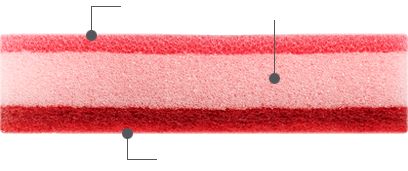
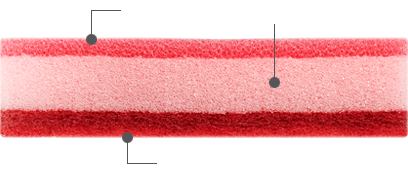
마이그레이션 홈앤리빙 기타용품

Changed region(s): [[0.0, 0.1754, 1.0, 0.848], [0.2941, 0.9064, 0.3824, 0.9649], [0.2059, 0.0292, 0.2941, 0.0877]]

diff --git a/_ui/responsive/html/product/home-living/detergent-cleanser/HL_7763_10_Soft_Buz.html b/_ui/responsive/html/product/home-living/detergent-cleanser/HL_7763_10_Soft_Buz.html
@@ -1,7 +1,7 @@
 <!DOCTYPE html>
 <html lang="ko">
 <head>
-	<title>극세사 맙 세트 상세정보</title>
+	<title>소프트 버즈 상세정보</title>
 	<meta http-equiv="Content-Type" content="text/html; charset=utf-8">
 	<meta http-equiv="X-UA-Compatible" content="IE=edge">
 	<meta charset="utf-8">
@@ -64,21 +64,18 @@
 											<div class="v-logo">&nbsp;</div>
 											<div class="txt-info-visual">
 												<div class="v-logo-txt">&nbsp;</div>
-												<div class="v-tit">극세사 맙 <span class="blue02">세트</span></div>
-												<p class="v-etc">
-													힘들게 물걸레로 넓은 거실, 쇼파 밑, 방안 구석구석 닦을 필요 없이, 극세사 맙세트로 간편하게 청소하세요.
-													<br>찌든 때도 말끔히 없애줄 뿐만 아니라 청소가 쉽고 즐거워집니다.
-													<br>넓은 면적으로 청소하기가 간편하고, 밀림성과 닦임성이 우수할 뿐만 아니라 180˚ 회전 가능해 쇼파나 침대 밑, 구석진 곳도 쉽게 청소할 수 있습니다. 
-												</p>												
+												<div class="v-tit">소프트 <span class="blue02">버즈</span></div>
+												<p class="v-txt">소프트 버즈는 디쉬 드랍스에 최적화된 고급 식기용 3중 구조 수세미입니다.</p>																								
 											</div>				
 											<div class="v-pro">
-												<span><img src="/_ui/responsive/theme-blue/images/akl_product/home-living/visual_top_7790.png" alt="극세사 맙 세트 상품 이미지"></span>
+												<span><img src="/_ui/responsive/theme-blue/images/akl_product/home-living/visual_top_7763.png" alt="소프트 버즈 이미지"></span>
 											</div>
 										</div>
 										<!--// 비주얼 영역 -->
-										
+																				
 										<!--  content 영역 -->
 										<div class="detail-content-area">
+										
 											<div class="health-inform-box">
 												<div class="box-tit">
 													<h5>제품 <span class="blue02">특징</span></h5>
@@ -86,83 +83,66 @@
 												<div class="effet-area">
 													<div class="advan-left">
 														<dl class="ad-setp-lst">
-															<dt class="blue02">소재</dt>
+															<dt class="blue02">고급식기용 3중 구조</dt>
 															<dd>
-																<ul class="norm-lst">
-																	<li>Glass Fiber(유리섬유) 소재로 내구성이 뛰어납니다.</li>
-																</ul>
+																<ol class="inge-numlst01">
+																	<li>- 필터폼 : 고급 식기도 스크래치 없이 깔끔하게 세척할 수 있으며 기름기 제거에 효과적입니다. 
+																	<li>- 항균스폰지 : 더욱 두꺼워진 스폰지가 풍부한 거품을 오래 유지시켜 줍니다.
+																	<li>- 부직포 수세미 : 일반 식기, 조리용기 등에 눌어붙거나 말라붙은 음식 찌꺼기를 깔끔하게 세척할 수 있습니다.</li>
+																</ol>
 															</dd>
-															<dt class="blue02">길이</dt>
+															<dt class="blue02">손에 딱 맞는 그립감</dt>
 															<dd>
-																<ul class="norm-lst">
-																	<li>간편한 5단 길이 조절 방식으로 23cm까지 조절하여 사용할 수 있습니다.</li>
-																</ul>
+																<ol class="inge-numlst01">
+																	<li>- 곡선 형태로 손에서 미끄러지지 않습니다.</li>
+																	<li>- 모서리 부분으로 구석진 곳도 깨끗하게 닦을 수 있습니다.</li>
+																</ol>
 															</dd>
-															<dt class="blue02">기능</dt>
+															<dt class="blue02">위생가공 / 항균방취 (항균마크)</dt>
 															<dd>
-																<ul class="norm-lst">
-																	<li>원터치 기능으로 맙 탈부착이 쉬우며 180도 회전이 가능해 구석진 곳도 편리하게 청소할 수 있습니다.</li>
-																</ul>
+																<ol class="inge-numlst01">
+																	<li>- 무기항균제 가공으로 위생적입니다.</li>
+																</ol>
 															</dd>
-															<dt class="blue02">맙</dt>
-															<dd>
-																<ul class="norm-lst">
-																	<li>닦임성, 밀림성이 우수한 극세사 맙으로 손쉽게 때를 제거할 수 있습니다.</li>
-																</ul>
-															</dd>
-															<dt class="blue02">편의</dt>
-															<dd>
-																<ul class="norm-lst">
-																	<li>맙을 거치대에 부착 시 원터치 버튼을 누르면 거치대가 가장 알맞은 각도로 조절되어 쉽게 끼울 수 있습니다. 탈착 시에도 원터치 버튼을 누르면 맙이 쉽게 분리됩니다.</li>
-																</ul>
-															</dd>
-															<dt class="blue02">재질</dt>
-															<dd>
-																<ul class="norm-lst">
-																	<li>폴리에스테르 80%와 폴리아미드 20%가 혼용된 극세사의 V자형 격자배열로 구성되어, 청소 시 밀림성과 닦임성이 탁월합니다.</li>
-																</ul>
-															</dd>
-															<dt class="blue02">코메츠</dt>
-															<dd>
-																<ul class="norm-lst">
-																	<li>맙 가장자리 코메츠 부분을 기존 제품 대비 더 가늘고 길게 제작하여, 구석진 곳의 먼지를 더욱 쉽게 흡착할 수 있도록 개선하였습니다.</li>
-																</ul>
-															</dd>
-															<dt class="blue02">디자인</dt>
-															<dd>
-																<ul class="norm-lst">
-																	<li>기존 제품 대비 맙의 크기를 증가시켜 한번에 청소할 수 있는 면적이 증가하였으며, 암웨이홈 L.O.C. 그린 컬러를 적용하되, 두 가지 다른 소재의 컬러를 차별화 하여 닦아낸 오염을 쉽게 확인할 수 있도록 개발되었습니다.</li>
-																</ul>
-															</dd>														
+															<dt class="blue02">걸이 구멍으로 위생적인 보관과 빠른 건조 가능</dt>																																												
 														</dl>													
 													</div>
-													<div class="advan-right mod-wrap">
-														<div class="ade-photo">
-															<span><img src="/_ui/responsive/theme-blue/images/akl_product/home-living/cont_7790_mop_rod.png" alt="mod rod 제품 이미지"></span>														
-														</div>
+													
+													<div class="advan-right mod-wrap buz">														
 														<div class="ade-photo dot-txt-area">
 															<div class="img-desc-area">
-																<img src="/_ui/responsive/theme-blue/images/akl_product/home-living/cont_7790_mop.png" alt="mod 특징 안내 이미지">															
-																<em class="txt fst">코메츠</em>
-																<em class="txt sec">폴리에스터</em>
-																<em class="txt three">폴리아미드</em>															
+																<img src="/_ui/responsive/theme-blue/images/akl_product/home-living/cont_7763_01.png" alt="특징 안내">															
+																<em class="txt sec">필터폼</em>
+																<em class="txt three">향균스폰지</em>
+																<em class="txt fst">부직포 수세미</em>															
 															</div>
 														</div>														
 													</div>
 												</div>
 											</div>
-											
+										
 											<div class="ingestion-usage">
 												<dl>
-													<dt>제품 구성</dt>
+													<dt>수량</dt>
 													<dd>
 														<ul class="norm-lst">
-															<li>극세사 맙, 밀대</li>
+															<li>4개 (1세트)</li>
 														</ul>
 													</dd>
+												</dl>
+												<dl>
+													<dt>주의사항</dt>
+													<dd>
+														<ol class="inge-numlst01">
+															<li>1) 알칼리성 세제, 표백제 사용을 피해주십시오. </li>
+															<li>2) 화기 근처에 두지 마시고 80ºc 이상의 뜨거운 물에서 사용하거나 얼리지 마십시오. </li>
+															<li>3) 부직포 수세미 면으로 코팅된 부분, 플라스틱, 유리, 도자기 등 흠집이 나기 쉬운 제품과 광택이 있는 제품에는 사용하지 마십시오.</li>
+															<li>4) 사용 후 잘 헹구어 물기를 꼭 짠 후 보관하면 건조가 빨라 깨끗한 상태로 오랫동안 사용할 수 있습니다.</li>
+														</ol>
+													</dd>
 												</dl>											
-											</div>											
-										</div>	
+											</div>
+										</div>
 										<!--//  content 영역 -->
 									</div>									
 									<!--// 제품 상세영역 -->									

diff --git a/_ui/responsive/html/product/home-living/detergent-cleanser/HL_7764_10_Power_Buz.html b/_ui/responsive/html/product/home-living/detergent-cleanser/HL_7764_10_Power_Buz.html
@@ -1,7 +1,7 @@
 <!DOCTYPE html>
 <html lang="ko">
 <head>
-	<title>극세사 맙 세트 상세정보</title>
+	<title>파워 버즈 상세정보</title>
 	<meta http-equiv="Content-Type" content="text/html; charset=utf-8">
 	<meta http-equiv="X-UA-Compatible" content="IE=edge">
 	<meta charset="utf-8">
@@ -64,21 +64,18 @@
 											<div class="v-logo">&nbsp;</div>
 											<div class="txt-info-visual">
 												<div class="v-logo-txt">&nbsp;</div>
-												<div class="v-tit">극세사 맙 <span class="blue02">세트</span></div>
-												<p class="v-etc">
-													힘들게 물걸레로 넓은 거실, 쇼파 밑, 방안 구석구석 닦을 필요 없이, 극세사 맙세트로 간편하게 청소하세요.
-													<br>찌든 때도 말끔히 없애줄 뿐만 아니라 청소가 쉽고 즐거워집니다.
-													<br>넓은 면적으로 청소하기가 간편하고, 밀림성과 닦임성이 우수할 뿐만 아니라 180˚ 회전 가능해 쇼파나 침대 밑, 구석진 곳도 쉽게 청소할 수 있습니다. 
-												</p>												
+												<div class="v-tit">파워 <span class="blue02">버즈</span></div>
+												<p class="v-txt">L.O.C.에 최적화된 표면 세정용 3중 구조</p>																								
 											</div>				
 											<div class="v-pro">
-												<span><img src="/_ui/responsive/theme-blue/images/akl_product/home-living/visual_top_7790.png" alt="극세사 맙 세트 상품 이미지"></span>
+												<span><img src="/_ui/responsive/theme-blue/images/akl_product/home-living/visual_top_7764.png" alt="파워 버즈 이미지"></span>
 											</div>
 										</div>
 										<!--// 비주얼 영역 -->
-										
+																				
 										<!--  content 영역 -->
 										<div class="detail-content-area">
+										
 											<div class="health-inform-box">
 												<div class="box-tit">
 													<h5>제품 <span class="blue02">특징</span></h5>
@@ -86,83 +83,66 @@
 												<div class="effet-area">
 													<div class="advan-left">
 														<dl class="ad-setp-lst">
-															<dt class="blue02">소재</dt>
+															<dt class="blue02">표면 세정용 3중 구조</dt>
 															<dd>
-																<ul class="norm-lst">
-																	<li>Glass Fiber(유리섬유) 소재로 내구성이 뛰어납니다.</li>
-																</ul>
+																<ol class="inge-numlst01">
+																	<li>- 메쉬네트 : 타원형 브러쉬 기능으로 틈새의 이물질도 깨끗하게 닦을 수 있습니다.</li>
+																	<li>- 향균스폰지 : 스폰지가 그립감을 향상시켜주며 흡수력이 뛰어나 물청소에도 용이합니다.</li>
+																	<li>- 부직포 수세미 :  강력 연마입자가 들어있어 부엌과 욕실 등 다양한 곳의 묵은 때와 찌든 때를 말끔히 없애줍니다.</li>
+																</ol>
 															</dd>
-															<dt class="blue02">길이</dt>
+															<dt class="blue02">S자 형으로 손에 딱 맞는 그립감</dt>
 															<dd>
-																<ul class="norm-lst">
-																	<li>간편한 5단 길이 조절 방식으로 23cm까지 조절하여 사용할 수 있습니다.</li>
-																</ul>
+																<ol class="inge-numlst01">
+																	<li>- 곡선 형태로 손에서 미끄러지지 않습니다.</li>
+																	<li>- 모서리 부분으로 구석진 곳도 깨끗하게 닦을 수 있습니다.</li>
+																</ol>
 															</dd>
-															<dt class="blue02">기능</dt>
+															<dt class="blue02">위생가공 / 항균방취 (항균마크)</dt>
 															<dd>
-																<ul class="norm-lst">
-																	<li>원터치 기능으로 맙 탈부착이 쉬우며 180도 회전이 가능해 구석진 곳도 편리하게 청소할 수 있습니다.</li>
-																</ul>
+																<ol class="inge-numlst01">
+																	<li>- 무기항균제 가공으로 위생적입니다.</li>
+																</ol>
 															</dd>
-															<dt class="blue02">맙</dt>
-															<dd>
-																<ul class="norm-lst">
-																	<li>닦임성, 밀림성이 우수한 극세사 맙으로 손쉽게 때를 제거할 수 있습니다.</li>
-																</ul>
-															</dd>
-															<dt class="blue02">편의</dt>
-															<dd>
-																<ul class="norm-lst">
-																	<li>맙을 거치대에 부착 시 원터치 버튼을 누르면 거치대가 가장 알맞은 각도로 조절되어 쉽게 끼울 수 있습니다. 탈착 시에도 원터치 버튼을 누르면 맙이 쉽게 분리됩니다.</li>
-																</ul>
-															</dd>
-															<dt class="blue02">재질</dt>
-															<dd>
-																<ul class="norm-lst">
-																	<li>폴리에스테르 80%와 폴리아미드 20%가 혼용된 극세사의 V자형 격자배열로 구성되어, 청소 시 밀림성과 닦임성이 탁월합니다.</li>
-																</ul>
-															</dd>
-															<dt class="blue02">코메츠</dt>
-															<dd>
-																<ul class="norm-lst">
-																	<li>맙 가장자리 코메츠 부분을 기존 제품 대비 더 가늘고 길게 제작하여, 구석진 곳의 먼지를 더욱 쉽게 흡착할 수 있도록 개선하였습니다.</li>
-																</ul>
-															</dd>
-															<dt class="blue02">디자인</dt>
-															<dd>
-																<ul class="norm-lst">
-																	<li>기존 제품 대비 맙의 크기를 증가시켜 한번에 청소할 수 있는 면적이 증가하였으며, 암웨이홈 L.O.C. 그린 컬러를 적용하되, 두 가지 다른 소재의 컬러를 차별화 하여 닦아낸 오염을 쉽게 확인할 수 있도록 개발되었습니다.</li>
-																</ul>
-															</dd>														
+															<dt class="blue02">걸이 구멍으로 위생적인 보관과 빠른 건조 가능</dt>																																												
 														</dl>													
 													</div>
-													<div class="advan-right mod-wrap">
-														<div class="ade-photo">
-															<span><img src="/_ui/responsive/theme-blue/images/akl_product/home-living/cont_7790_mop_rod.png" alt="mod rod 제품 이미지"></span>														
-														</div>
+													
+													<div class="advan-right mod-wrap buz">														
 														<div class="ade-photo dot-txt-area">
 															<div class="img-desc-area">
-																<img src="/_ui/responsive/theme-blue/images/akl_product/home-living/cont_7790_mop.png" alt="mod 특징 안내 이미지">															
-																<em class="txt fst">코메츠</em>
-																<em class="txt sec">폴리에스터</em>
-																<em class="txt three">폴리아미드</em>															
+																<img src="/_ui/responsive/theme-blue/images/akl_product/home-living/cont_7764_01.png" alt="특징 안내">															
+																<em class="txt sec">메쉬네트</em>
+																<em class="txt three">향균스폰지</em>
+																<em class="txt fst">부직포 수세미</em>															
 															</div>
 														</div>														
 													</div>
 												</div>
 											</div>
-											
+										
 											<div class="ingestion-usage">
 												<dl>
-													<dt>제품 구성</dt>
+													<dt>수량</dt>
 													<dd>
 														<ul class="norm-lst">
-															<li>극세사 맙, 밀대</li>
+															<li>4개 (1세트)</li>
 														</ul>
 													</dd>
+												</dl>
+												<dl>
+													<dt>주의사항</dt>
+													<dd>
+														<ol class="inge-numlst01">
+															<li>1) 알칼리성 세제, 표백제 사용을 피해주십시오. </li>
+															<li>2) 화기 근처에 두지 마시고 80ºc 이상의 뜨거운 물에서 사용하거나 얼리지 마십시오. </li>
+															<li>3) 부직포 수세미 면으로 코팅된 부분, 플라스틱, 유리, 도자기 등 흠집이 나기 쉬운 제품과 광택이 있는 제품에는 사용하지 마십시오.</li>
+															<li>4) 사용 후 잘 헹구어 물기를 꼭 짠 후 보관하면 건조가 빨라 깨끗한 상태로 오랫동안 사용할 수 있습니다.</li>
+														</ol>
+													</dd>
 												</dl>											
-											</div>											
-										</div>	
+											</div>
+										</div>
 										<!--//  content 영역 -->
 									</div>									
 									<!--// 제품 상세영역 -->									

diff --git a/_ui/responsive/theme-blue/css/akl-product02.css b/_ui/responsive/theme-blue/css/akl-product02.css
@@ -475,13 +475,19 @@ p, div, li span{word-break: keep-all;word-wrap: break-word;}
 .assistant-pr .ad-setp-lst dt{font-size:18px;}
 .assistant-pr .ad-setp-lst dd .inge-numlst01 li{margin-left: 10px;text-indent: -8px;}
 
-.assistant-pr .effet-area .advan-right.mod-wrap .ade-photo:nth-child(2){margin-top:50px;}
-.assistant-pr .effet-area .advan-right.mod-wrap .ade-photo:nth-child(2) .img-desc-area{display: inline-block;position: relative;width: auto;height: auto;}
-.assistant-pr .effet-area .advan-right.mod-wrap .ade-photo:nth-child(2) .img-desc-area img{width: auto;height: auto;display: block;}
-.assistant-pr .effet-area .advan-right.mod-wrap .ade-photo:nth-child(2) .img-desc-area .txt{position:absolute;overflow: hidden;}
-.assistant-pr .effet-area .advan-right.mod-wrap .ade-photo:nth-child(2) .img-desc-area .txt.fst{display:block;width:100%;top:0;left:0;}
-.assistant-pr .effet-area .advan-right.mod-wrap .ade-photo:nth-child(2) .img-desc-area .txt.sec{display:inline-block;width: 50%;bottom: 0;left:0;}
-.assistant-pr .effet-area .advan-right.mod-wrap .ade-photo:nth-child(2) .img-desc-area .txt.three{display:inline-block;width: 50%;bottom: 0;right: 0;}
+.assistant-pr .effet-area .advan-right.mod-wrap .ade-photo.dot-txt-area{margin-top:50px;}
+.assistant-pr .effet-area .advan-right.mod-wrap .ade-photo.dot-txt-area .img-desc-area{display: inline-block;position: relative;width: auto;height: auto;}
+.assistant-pr .effet-area .advan-right.mod-wrap .ade-photo.dot-txt-area .img-desc-area img{width: auto;height: auto;display: block;}
+.assistant-pr .effet-area .advan-right.mod-wrap .ade-photo.dot-txt-area .img-desc-area .txt{position:absolute;overflow: hidden;}
+.assistant-pr .effet-area .advan-right.mod-wrap .ade-photo.dot-txt-area .img-desc-area .txt.fst{display:block;width:100%;top:0;left:0;}
+.assistant-pr .effet-area .advan-right.mod-wrap .ade-photo.dot-txt-area .img-desc-area .txt.sec{display:inline-block;width: 50%;bottom: 0;/* right: 0; */}
+.assistant-pr .effet-area .advan-right.mod-wrap .ade-photo.dot-txt-area .img-desc-area .txt.three{display:inline-block;width: 50%;bottom: 0;right: 0;}
+
+.assistant-pr .effet-area .advan-right.mod-wrap.buz{}
+.assistant-pr .effet-area .advan-right.mod-wrap.buz .img-desc-area .txt.fst{display:block;width:100%;top:inherit !important;bottom:0;left:0;}
+.assistant-pr .effet-area .advan-right.mod-wrap.buz .img-desc-area .txt.sec{display:inline-block;width:50%;top:0;bottom:inherit !important;left: 14%;}
+.assistant-pr .effet-area .advan-right.mod-wrap.buz .img-desc-area .txt.three{display:inline-block;width:50%;top:0;bottom:inherit !important;left: 42%;}
+
 
 @media (max-width: 768px) {
 	/* 스킨케어 뷰티 비주얼 영역 공통 */	
@@ -692,7 +698,14 @@ p, div, li span{word-break: keep-all;word-wrap: break-word;}
 	.oral-round-lst li .txt-wrap dt{font-size:20px;margin-bottom:5px;}
 	.oral-round-lst li .txt-wrap dd{font-size:14px;}
 	
-	.assistant-pr .effet-area .advan-right.mod-wrap .ade-photo:nth-child(2) .img-desc-area .txt{font-size:12px;padding-top:2px;}
+	.assistant-pr .effet-area .advan-right.mod-wrap .ade-photo.dot-txt-area .img-desc-area .txt{font-size:12px;padding-top:2px;}
+	.assistant-pr .effet-area .advan-right.mod-wrap.buz .ade-photo.dot-txt-area .img-desc-area .txt{font-size:12px;}	
+	.assistant-pr .effet-area .advan-right.mod-wrap.buz .img-desc-area .txt.fst{bottom:-3px;left: 10px !important;}
+	.assistant-pr .effet-area .advan-right.mod-wrap.buz .img-desc-area .txt.sec, 
+	.assistant-pr .effet-area .advan-right.mod-wrap.buz .img-desc-area .txt.three{top:-5px;}
+	.assistant-pr .effet-area .advan-right.mod-wrap.buz .img-desc-area .txt.three{/*text-align:right;*/}
+	
+	
 }
 
 
@@ -736,9 +749,10 @@ p, div, li span{word-break: keep-all;word-wrap: break-word;}
 	.visual-area.others .txt-info-visual .v-etc{font-size:14px !important;}
 	.visual-area.others .v-pro {margin-top: 35px !important;}
 	.visual-area.others{padding-bottom:45px !important;}
-	
-	
-	
+	.assistant-pr .effet-area .advan-right.mod-wrap.buz .img-desc-area .txt.fst{bottom:-3px;left: 16px !important;}
+	.assistant-pr .effet-area .advan-right.mod-wrap.buz .img-desc-area .txt.sec, 
+	.assistant-pr .effet-area .advan-right.mod-wrap.buz .img-desc-area .txt.three{top:-7px;}
+	.assistant-pr .effet-area .advan-right.mod-wrap.buz .img-desc-area .txt.three{text-align:right;}
 	
 	
 }

diff --git a/_ui/responsive/html/product/home-living/detergent-cleanser/HL_7791_10_Superfine_Mop.html b/_ui/responsive/html/product/home-living/detergent-cleanser/HL_7791_10_Superfine_Mop.html
@@ -143,7 +143,7 @@
 														</div>
 														<div class="ade-photo">
 															<div class="img-desc-area">
-																<img src="/_ui/responsive/theme-blue/images/akl_product/home-living/cont_7790_mop.png" alt="mod 제품 이미지">															
+																<img src="/_ui/responsive/theme-blue/images/akl_product/home-living/cont_7790_mop.png" alt="mod 특징 안내 이미지">															
 																<em class="txt fst">코메츠</em>
 																<em class="txt sec">폴리에스터</em>
 																<em class="txt three">폴리아미드</em>															
